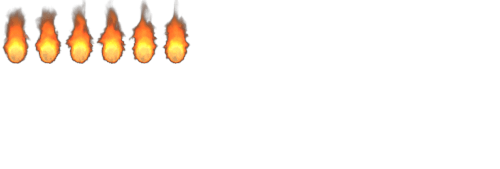
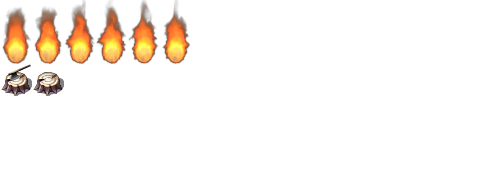
add new animation and play it

Changed region(s): [[0.0, 0.3846, 0.15, 0.5621]]

diff --git a/game/js/animations/animations.js b/game/js/animations/animations.js
@@ -10,6 +10,12 @@ export class Animations {
     return listData;
   }
 
+  static getAnimation({ x, y }) {
+    return listData.find(
+      (animation) => animation.pos[0] === x && animation.pos[1] === y
+    );
+  }
+
   static addAnimations(animations) {
     for (let i = 0; i < animations.length; i++) {
       const animation = animations[i];
@@ -33,7 +39,9 @@ export class Animations {
             pos: animation.sprite.pos,
             size: animation.sprite.size,
             speed: animation.sprite.speed,
-            frames: animation.sprite.frames
+            frames: animation.sprite.frames,
+            once: animation.sprite.once,
+            stay: animation.sprite.stay
           })
         },
         config.debug

diff --git a/game/js/canvas/Interactions.js b/game/js/canvas/Interactions.js
@@ -1,6 +1,7 @@
 import config from '../config.js';
 import Input from '../utils/Input.js';
 import { Units } from '../units/units.js';
+import { Animations } from '../animations/animations.js';
 import { getPath } from '../map/path.js';
 
 const body = document.getElementsByTagName('body')[0];
@@ -115,6 +116,8 @@ class Interactions {
         player.skin.once = false;
       } else if (item && this.itemInRange({ x, y })) {
         player.equip(item);
+        Animations.getAnimation({ x, y }).play();
+
         body.classList.add('cursor--use');
         body.classList.remove('cursor--info');
       } else {

diff --git a/game/js/animations/Animation.js b/game/js/animations/Animation.js
@@ -1,13 +1,14 @@
 export default class Animation {
   constructor({ id, pos, autoplay, sprite }) {
+    this.frames = sprite.frames;
     this.sprite = sprite;
     this.sprite.frames = autoplay ? sprite.frames : [0];
     this.id = id;
-    this.autoplay = autoplay;
     this.pos = pos;
   }
 
   play() {
     this.sprite.index = 0;
+    this.sprite.frames = this.frames;
   }
 }
